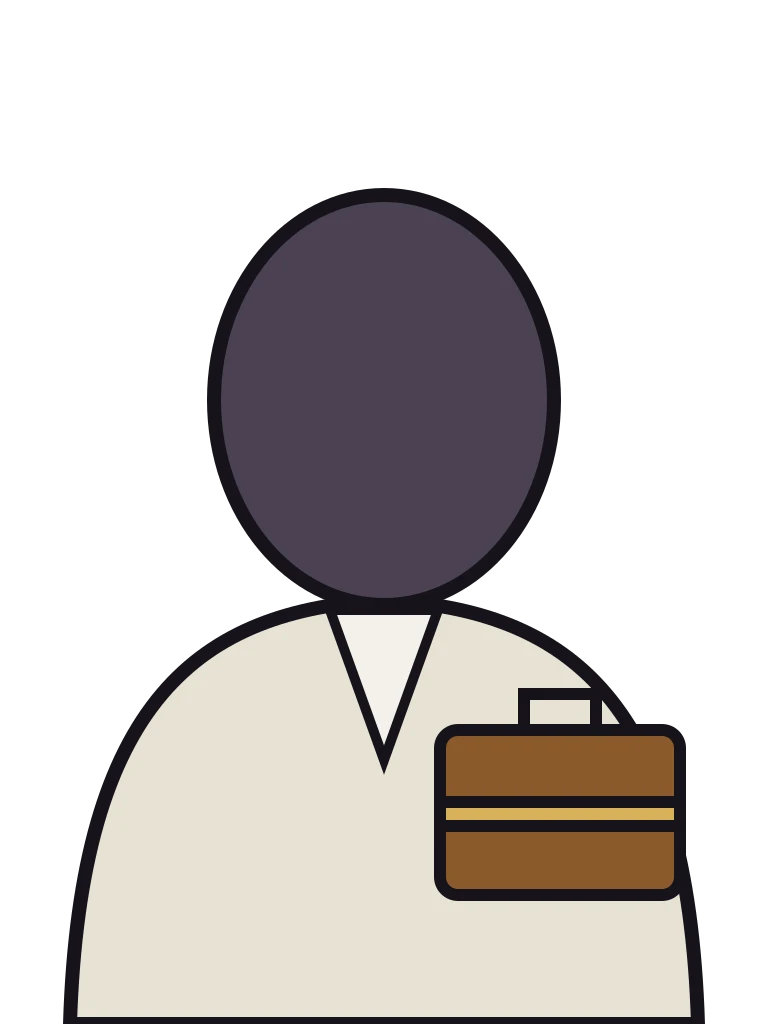
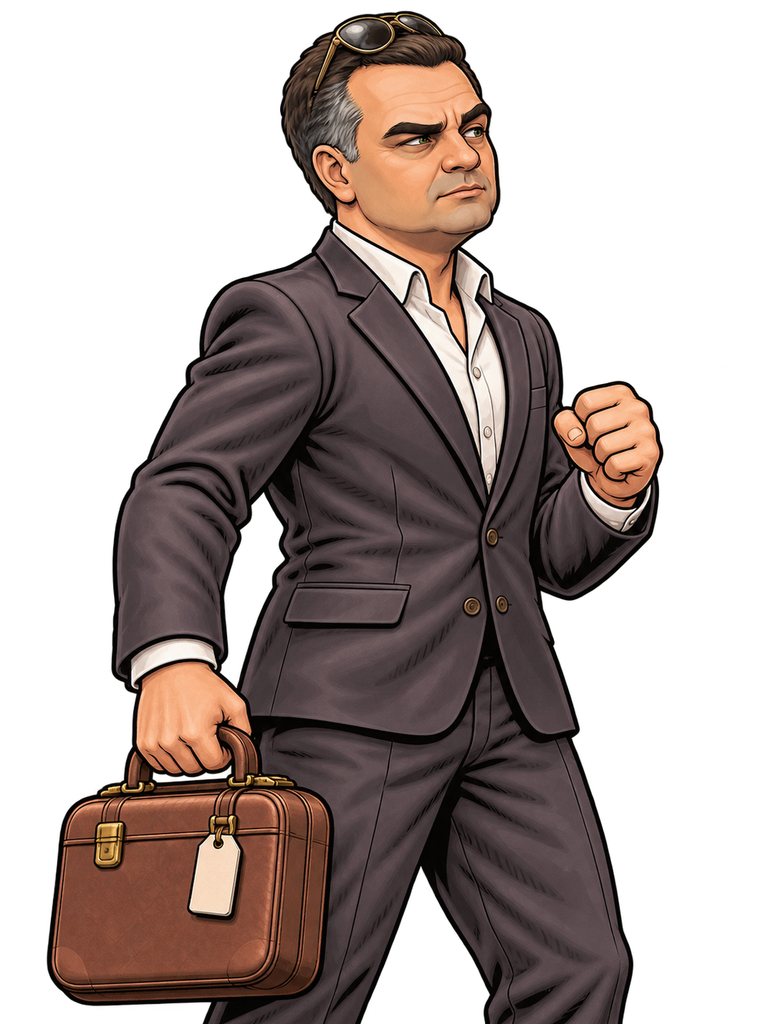
Add Fujão cartoon sprites and synchronized visual effects

diff --git a/src/render/fujao-art.js b/src/render/fujao-art.js
@@ -1,0 +1,48 @@
+import { SYS } from '../data/system.js';
+import { FUJAO_FX_BOUNDS } from '../data/fujao-art.js';
+import { drawSpriteLayer } from './sprites.js';
+
+const phase = (t, n) => Math.max(0, Math.min(5, Math.floor(t / Math.max(1, n) * 6)));
+export const drawFujaoLayer = (c, name, index, box) => FUJAO_FX_BOUNDS[name]
+  ? drawSpriteLayer(c, 'fujao-fx', name, index, { ...box, crop: FUJAO_FX_BOUNDS[name] }) : false;
+
+export function fujaoEntityArt(e, owner) {
+  if (owner !== 'fujao') return null;
+  const ground = SYS.GROUND_Y;
+  if (e.kind === 'mala') return { name: 'mala-no-chao', index: Math.floor(e.age / 8) % 6, box: { x: e.x, y: ground, w: e.w, h: e.h, anchor: 'bottom' } };
+  if (e.kind === 'mala-voando') return { name: 'mala-voando', index: Math.floor(e.age / 3) % 6, box: { x: e.x, y: ground - e.y - e.h / 2, w: e.w * 1.4, h: e.h * 1.5, face: e.dir } };
+  if (e.kind === 'mala-caindo') {
+    const p = Math.max(0, Math.min(1, 1 - e.delay / 12));
+    return { name: 'mala-caindo', index: phase(p, 1), box: { x: e.x, y: ground - (e.delay > 0 ? 720 * (1 - p * p) : 0), w: e.w, h: 150, anchor: 'bottom' }, warning: e.delay > 0 };
+  }
+  return null;
+}
+export function drawFujaoEntity(c, e, owner) {
+  const a = fujaoEntityArt(e, owner);
+  if (!a) return false;
+  if (a.warning) drawFujaoLayer(c, 'aviso-queda', Math.floor(e.age / 3) % 6, { x: e.x, y: SYS.GROUND_Y + 10, w: e.w, h: 95, anchor: 'bottom' });
+  return drawFujaoLayer(c, a.name, a.index, a.box);
+}
+export function drawFujaoAttack(c, f) {
+  if (f.ch.id !== 'fujao' || !f.move) return false;
+  if (f.moveKey === '6S' && f.sf < 30) drawFujaoLayer(c, f.move.isTurbo ? 'carrinho-turbo' : 'carrinho-bagagem', Math.floor(f.sf / 3) % 6, { x: 210, y: 0, w: 270, h: 300, anchor: 'bottom' });
+  if (f.moveKey === 'SA3' && f.sf >= 4 && f.sf <= 25) drawFujaoLayer(c, 'esteira-super', Math.floor((f.sf - 4) / 3) % 6, { x: 250, y: -680, w: 420, h: 180 });
+  return true;
+}
+export function drawFujaoStatus(c, f, frame) {
+  if (f.ch.id !== 'fujao' || f.hp <= 0) return;
+  const name = f.res.board > 0 ? 'embarque-progresso' : f.res.cornered ? 'encurralado-aviso' : f.res.escapeCD <= 0 ? 'fuga-pronta' : null;
+  if (name) drawFujaoLayer(c, name, Math.floor(frame / 6) % 6, { x: f.x, y: SYS.GROUND_Y - f.y - 545, w: 120, h: 95 });
+}
+export function fujaoEventArt(e, st) {
+  const actor = st.f[e.side], f = st.f.find(f => f.ch.id === 'fujao' && (e.x == null || Math.abs(f.x - e.x) < 50));
+  if (e.t === 'hit' && actor?.ch.id === 'fujao' && ['5H', 'jH', '5S', '6S', 'SA1', 'SA3'].includes(e.key)) return { name: e.key === 'SA1' ? 'pista-livre-impacto' : 'mala-impacto', x: e.x, y: SYS.GROUND_Y - e.y, w: 240, h: 220, dur: 18 };
+  if (e.t === 'strike' && e.kind === 'mala-caindo') return { name: 'mala-impacto', x: e.x, y: SYS.GROUND_Y - 65, w: 230, h: 170, dur: 18 };
+  if ((e.t === 'escape' || e.t === 'move' && e.key === '4S') && actor?.ch.id === 'fujao') return { name: 'fuga-poeira', x: e.x ?? actor.x, y: SYS.GROUND_Y, w: 280, h: 130, anchor: 'bottom', dur: 24 };
+  if (e.t === 'pop' && f) {
+    const name = e.str === 'EMBARQUE NEGADO!' ? 'embarque-negado' : e.str.startsWith('QUASE EMBARCOU!') ? 'embarque-cura' : null;
+    if (name) return { name, x: f.x, y: SYS.GROUND_Y - 600, w: 180, h: 160, dur: 30 };
+  }
+  return null;
+}
+export const drawFujaoParticle = (c, p) => drawFujaoLayer(c, p.name, phase(p.t, p.dur), p);

diff --git a/tests/unit/fujao-art.test.js b/tests/unit/fujao-art.test.js
@@ -1,0 +1,51 @@
+import test from 'node:test';
+import assert from 'node:assert/strict';
+import fujao from '../../src/data/characters/fujao.js';
+import { animFor } from '../../src/render/anim.js';
+import { spriteProgress } from '../../src/render/sprite-timing.js';
+import { fujaoEntityArt, fujaoEventArt } from '../../src/render/fujao-art.js';
+import { SYS } from '../../src/data/system.js';
+
+const frame = (key, sf, turbo = false) => {
+  const move = turbo ? fujao.moves[key].turbo : fujao.moves[key];
+  return Math.floor(spriteProgress({ ch: fujao, state: 'attack', moveKey: key, move, sf }, { p: 0 }) * 6);
+};
+test('Fujão art releases bags exactly at normal and turbo spawns', () => {
+  for (const [key, turbo] of [['5S', false], ['5S', true], ['2S', false]]) {
+    const m = turbo ? fujao.moves[key].turbo : fujao.moves[key];
+    const at = m.spawn[0].at;
+    assert.equal(frame(key, at - 1, turbo), 2);
+    assert.equal(frame(key, at, turbo), 3);
+    assert.equal(frame(key, m.total - 1, turbo), 5);
+  }
+});
+test('Fujão four super contacts and five drops follow distinct native poses', () => {
+  assert.deepEqual(fujao.moves.SA1.hits.map(h => frame('SA1', h.from)), [1, 2, 3, 4]);
+  assert.deepEqual(fujao.moves.SA3.spawn.map(s => frame('SA3', s.at)), [2, 2, 3, 3, 4]);
+});
+test('Fujão escape releases at frame two and running art cycles until braking', () => {
+  assert.equal(frame('4S', 1), 0); assert.equal(frame('4S', 2), 1);
+  assert.deepEqual([3, 6, 9, 12].map(t => frame('4S', t)), [2, 3, 2, 3]);
+  assert.equal(frame('4S', 23), 4); assert.equal(frame('4S', 30), 5);
+  for (const turbo of [false, true]) assert.deepEqual([8, 12, 16, 27].map(t => frame('6S', t, turbo)), [2, 3, 4, 5]);
+});
+test('Fujão boarding and corner art only override idle', () => {
+  const f = { ch: fujao, state: 'idle', res: { board: 1, cornered: true } };
+  assert.equal(animFor(f, 10).name, 'embarcar'); f.res.board = 0;
+  assert.equal(animFor(f, 10).name, 'encurralado');
+  f.state = 'walk'; f.vx = 1; f.face = 1;
+  assert.equal(animFor(f, 10).name, 'andar');
+});
+test('Fujão suitcase visuals preserve simulation dimensions and other owners', () => {
+  const e = { kind: 'mala-caindo', x: 1300, y: 0, w: 170, h: 700, delay: 5, age: 12 };
+  const before = JSON.stringify(e), a = fujaoEntityArt(e, 'fujao');
+  assert.ok(a.warning); assert.equal(a.name, 'mala-caindo');
+  assert.ok(a.box.y < SYS.GROUND_Y); assert.equal(JSON.stringify(e), before);
+  assert.equal(fujaoEntityArt(e, 'pai-fujao'), null);
+  assert.equal(fujaoEntityArt({ ...e, delay: 0 }, 'fujao').box.y, SYS.GROUND_Y);
+});
+test('Fujão boarding result icons follow the actual simulation events', () => {
+  const st = { f: [{ ch: fujao, x: 2000 }] };
+  assert.equal(fujaoEventArt({ t: 'pop', str: 'EMBARQUE NEGADO!', x: 2000 }, st).name, 'embarque-negado');
+  assert.equal(fujaoEventArt({ t: 'pop', str: 'QUASE EMBARCOU! +VIDA', x: 2000 }, st).name, 'embarque-cura');
+});

diff --git a/src/render/fx.js b/src/render/fx.js
@@ -9,6 +9,7 @@ import { drawTrunksEntity, drawTrunksParticle } from './trunks-art.js';
 import { drawBelgaEntity, drawBelgaParticle } from './belga-art.js';
 import { drawRyuchiEntity, drawRyuchiParticle } from './ryuchi-art.js';
 import { drawPavanassiEntity, drawPavanassiParticle } from './pavanassi-art.js';
+import { drawFujaoEntity, drawFujaoParticle, fujaoEventArt } from './fujao-art.js';
 import { drawPacifier, drawStamp, drawFence, drawCabin, drawBag, drawHenchman, drawCash, drawTweet, drawGoldWall, drawFireball, drawFireColumn, drawThrownTrident, drawFloorFire } from './boss-art.js';
 
 /**
@@ -33,6 +34,8 @@ export function fxEvents(fx, st) {
   for (const e of st.events) {
     const sy = GY - (e.y || 0);
     const actor = st.f[e.side];
+    const fujaoArt = fujaoEventArt(e, st);
+    if (fujaoArt && !fx.parts.some(p => p.id === 'fujao-fx' && p.name === fujaoArt.name && p.t === 0 && p.x === fujaoArt.x)) fx.parts.push({ k: 'sprite', id: 'fujao-fx', ...fujaoArt, t: 0 });
     const chupetinhaArt = chupetinhaEventArt(e, st);
     if (chupetinhaArt) fx.parts.push({ k: 'chupetinha', ...chupetinhaArt, t: 0 });
     if (actor?.ch?.spriteProfile === 'ten-frame') {
@@ -226,7 +229,7 @@ export function drawEntities(c, st) {
       continue;
     }
     if (e.kind === 'mala' || e.kind === 'mala-voando' || e.kind === 'mala-caindo') {
-      drawBag(c, e, x, y, GY, st.frame);
+      if (!drawFujaoEntity(c, e, owner?.ch.id)) drawBag(c, e, x, y, GY, st.frame);
       c.restore();
       continue;
     }
@@ -406,6 +409,7 @@ export function fxDrawFront(c, fx) {
     const t = p.t / p.dur;
     if (p.k === 'absorb') continue;
     if (p.k === 'sprite' && p.id === 'pavanassi-fx') { drawPavanassiParticle(c,p); continue; }
+    if (p.k === 'sprite' && p.id === 'fujao-fx') { drawFujaoParticle(c,p); continue; }
     if (p.k === 'chupetinha') { drawChupetinhaParticle(c, p); continue; }
     if (p.k === 'sprite' && ['zanata-fx','zanata-esquerda-fx'].includes(p.id)) { drawZanataParticle(c,p); continue; }
     if (p.k === 'sprite' && p.id === 'ryuchi-fx') { drawRyuchiParticle(c, p); continue; }

diff --git a/src/data/fujao-art.js b/src/data/fujao-art.js
@@ -1,0 +1,93 @@
+// Shared FX crops in the renderer's canonical 768px coordinates.
+export const FUJAO_FX_BOUNDS = {
+  "mala-voando": [
+    61.44,
+    90.624,
+    645.12,
+    586.752
+  ],
+  "mala-no-chao": [
+    61.44,
+    207.36,
+    645.12,
+    353.28
+  ],
+  "mala-caindo": [
+    61.44,
+    67.584,
+    645.12,
+    634.368
+  ],
+  "mala-impacto": [
+    61.44,
+    99.84,
+    645.12,
+    569.856
+  ],
+  "aviso-queda": [
+    66.048,
+    61.44,
+    637.44,
+    645.12
+  ],
+  "carrinho-bagagem": [
+    70.656,
+    61.44,
+    626.688,
+    645.12
+  ],
+  "carrinho-turbo": [
+    61.44,
+    81.408,
+    645.12,
+    606.72
+  ],
+  "fuga-poeira": [
+    61.44,
+    247.296,
+    645.12,
+    274.944
+  ],
+  "fuga-pronta": [
+    61.44,
+    190.464,
+    645.12,
+    388.608
+  ],
+  "encurralado-aviso": [
+    61.44,
+    81.408,
+    645.12,
+    605.184
+  ],
+  "embarque-progresso": [
+    61.44,
+    181.248,
+    645.12,
+    407.04
+  ],
+  "embarque-cura": [
+    78.336,
+    61.44,
+    612.864,
+    645.12
+  ],
+  "embarque-negado": [
+    61.44,
+    168.96,
+    645.12,
+    431.616
+  ],
+  "pista-livre-impacto": [
+    61.44,
+    76.8,
+    645.12,
+    615.936
+  ],
+  "esteira-super": [
+    61.44,
+    196.608,
+    645.12,
+    376.32
+  ]
+};

diff --git a/src/ui/app.js b/src/ui/app.js
@@ -15,6 +15,7 @@ import { drawEffect, prepareSprites, spritePacksFor } from '../render/sprites.js
 import { drawFighter, drawBoxes } from '../render/mannequin.js';
 import { drawLivePhone, drawBanStamp, drawAnkleZone, drawHeadline, drawFired, drawGoldArmor, drawWings } from '../render/boss-art.js';
 import { drawPavanassiStatus } from '../render/pavanassi-art.js';
+import { drawFujaoStatus } from '../render/fujao-art.js';
 import { drawInfernoStage } from '../render/inferno-stage.js';
 import { drawWashingtonStage } from '../render/washington-stage.js';
 import { drawMansionStage } from '../render/mansion-stage.js';
@@ -603,6 +604,7 @@ export function createApp(canvas, devices, opts = {}) {
       if (f.ch.id === 'chupetinha') drawLivePhone(c, f, app.frame);
       drawBanStamp(c, f, BAN_LABEL);
       drawPavanassiStatus(c, f, app.frame);
+      drawFujaoStatus(c, f, app.frame);
       if (f.ch.id === 'laranjao' && f.res.headline && st.ents.some((e) => e.kind === 'clone' && e.owner === f.side)) drawHeadline(c, f.x, SYS.GROUND_Y - f.y - 560, f.res.headline);
       if (absorb && absorb.t / absorb.dur > .35) {
         c.translate(f.x, SYS.GROUND_Y - f.y);

diff --git a/src/data/characters/fujao.js b/src/data/characters/fujao.js
@@ -67,12 +67,19 @@ const moves = {
 
 export default {
   id: 'fujao',
+  spriteProfile: 'six-frame', spriteScale: 0.7631, spriteRecovery: true,
+  spriteFacingPacks: { right: 'fujao', left: 'fujao-esquerda' },
+  spriteStatePhases: true, spritePhasedMoves: Object.keys(moves),
+  spriteTurboMoves: ['5S', '6S'],
+  spriteHitFrames: { SA1: [1, 2, 3, 4] },
+  spriteHitGapFrames: { SA1: [1, 2, 3] },
+  spriteSpawnFrames: { SA3: [2, 2, 3, 3, 4] },
   name: 'FUJÃO',
   style: 'Chefe — fuga e armadilhas',
   mechName: 'FUGA',
   mechDesc: 'Longe do canto, foge no meio do combo e larga malas. Encurrale perto da parede e não deixe ele embarcar.',
-  colors: { skin: '#e6b892', top: '#e8e2d4', top2: '#2f5d9e', bottom: '#3a3f4a', accent: '#8a5a2a', hair: '#5a3a1e', shoe: '#2a1c14' },
-  look: { hair: 'curly', weapon: 'mala', sleeves: 'long' },
+  colors: { skin: '#e6b892', top: '#39353b', top2: '#ffffff', bottom: '#39353b', accent: '#8a5a2a', hair: '#3e302a', shoe: '#52372a' },
+  look: { hair: 'short', weapon: 'mala', sleeves: 'long' },
   walkF: 7.0, walkB: 7.4, jumpScale: 1.0, hpScale: 1.4,
   boss: true,
   place: 'AEROPORTO',

diff --git a/src/render/sprite-timing.js b/src/render/sprite-timing.js
@@ -1,10 +1,15 @@
 import { chupetinhaProgress } from './chupetinha-timing.js';
 import { SYS } from '../data/system.js';
+import { fujaoProgress } from './fujao-timing.js';
 
 const progress = value => Math.max(0, Math.min(0.999, value));
 
 /** Art-only timeline. Combat windows and simulation state remain authoritative. */
 export function spriteProgress(f, animation) {
+  if (f.ch?.id === 'fujao' && f.ch.spriteProfile === 'six-frame') {
+    const p = fujaoProgress(f);
+    if (p !== null) return p;
+  }
   if (f.ch?.id === 'chupetinha' && f.ch.spriteProfile === 'six-frame') return chupetinhaProgress(f, animation);
   if (f.ch?.spriteProfile === 'six-frame') return sixFrameProgress(f, animation);
   if (f.ch?.spriteProfile !== 'ten-frame') return animation.p;

diff --git a/src/render/anim.js b/src/render/anim.js
@@ -68,6 +68,10 @@ const byVy = (list, vy) => {
  * @returns {{name: string, index: number}}
  */
 export function animFor(f, frame) {
+  if (f.ch?.id === 'fujao' && f.ch.spriteProfile === 'six-frame' && f.state === 'idle') {
+    const name = f.res?.board > 0 ? 'embarcar' : f.res?.cornered ? 'encurralado' : null;
+    if (name) return { name, p: (frame % 48) / 48, index: Math.floor((frame % 48) / 8), loop: true };
+  }
   const A = STATE_ANIMS;
   // p: progresso de 0 a 1 dentro da tira, para tiras com outro número de quadros
   const cyc = (name) => {

diff --git a/src/render/character-fx.js b/src/render/character-fx.js
@@ -1,9 +1,11 @@
 import { drawEffect } from './sprites.js';
 import { drawPavanassiAttack } from './pavanassi-art.js';
+import { drawFujaoAttack } from './fujao-art.js';
 
 // Pure presentation: hitboxes, damage and movement remain in the simulation.
 export function drawCharacterFx(c, f) {
   if (f.state !== 'attack') return false;
+  if (f.ch.id === 'fujao') return drawFujaoAttack(c, f);
   if (f.ch.id === 'pavanassi') return drawPavanassiAttack(c, f);
   const m = f.move, key = f.moveKey, t = f.sf;
   const first = m.hits[0]?.from ?? m.startup;

diff --git a/src/render/fujao-timing.js b/src/render/fujao-timing.js
@@ -1,0 +1,8 @@
+// Presentation only: the simulation retains all movement, spawn and hit windows.
+export function fujaoProgress(f) {
+  if (f.state !== 'attack' || !f.move) return null;
+  const t = f.sf;
+  if (f.moveKey === '4S') return (t < 2 ? 0 : t < 3 ? 1 : t <= 22 ? 2 + Math.floor((t - 3) / 3) % 2 : t < 27 ? 4 : 5) / 6;
+  if (f.moveKey === '6S') return (t < 4 ? 0 : t < 8 ? 1 : t <= 26 ? 2 + Math.floor((t - 8) / 4) % 3 : 5) / 6;
+  return null;
+}
